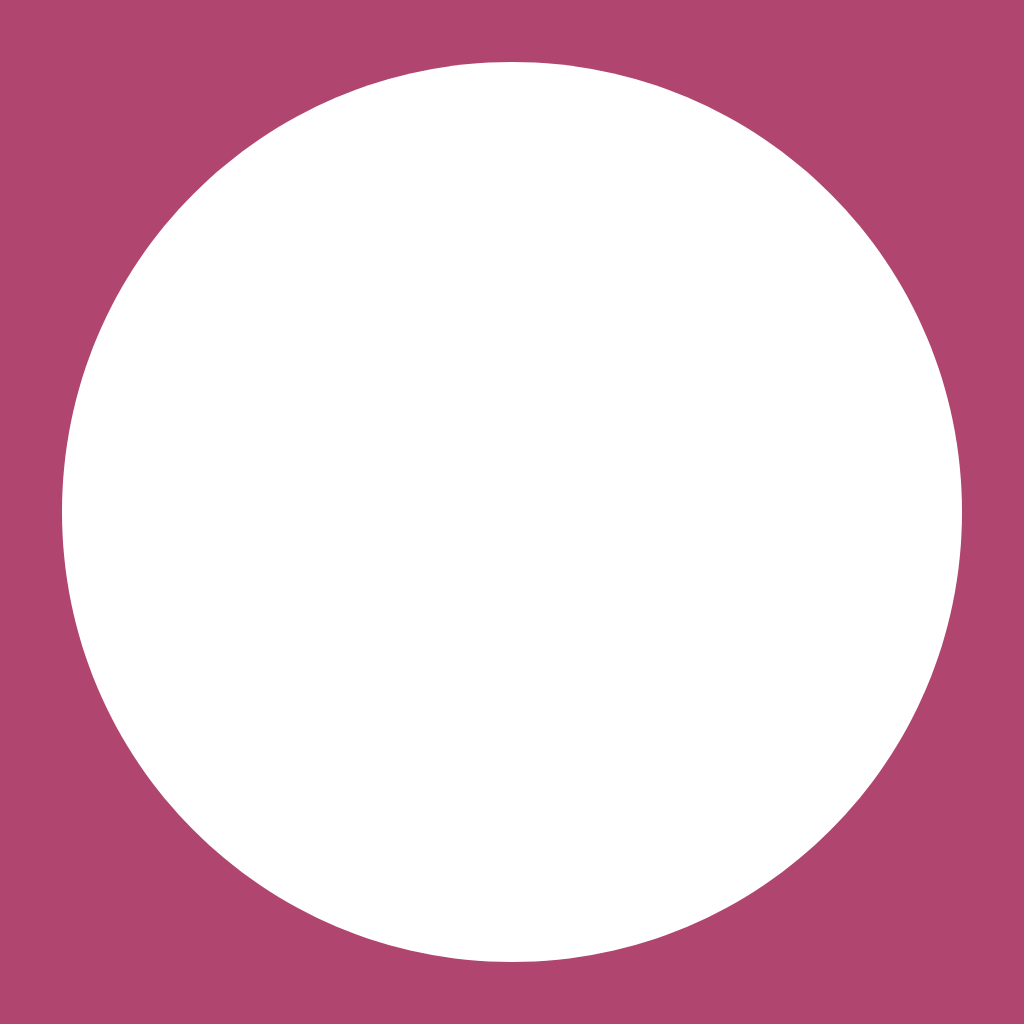
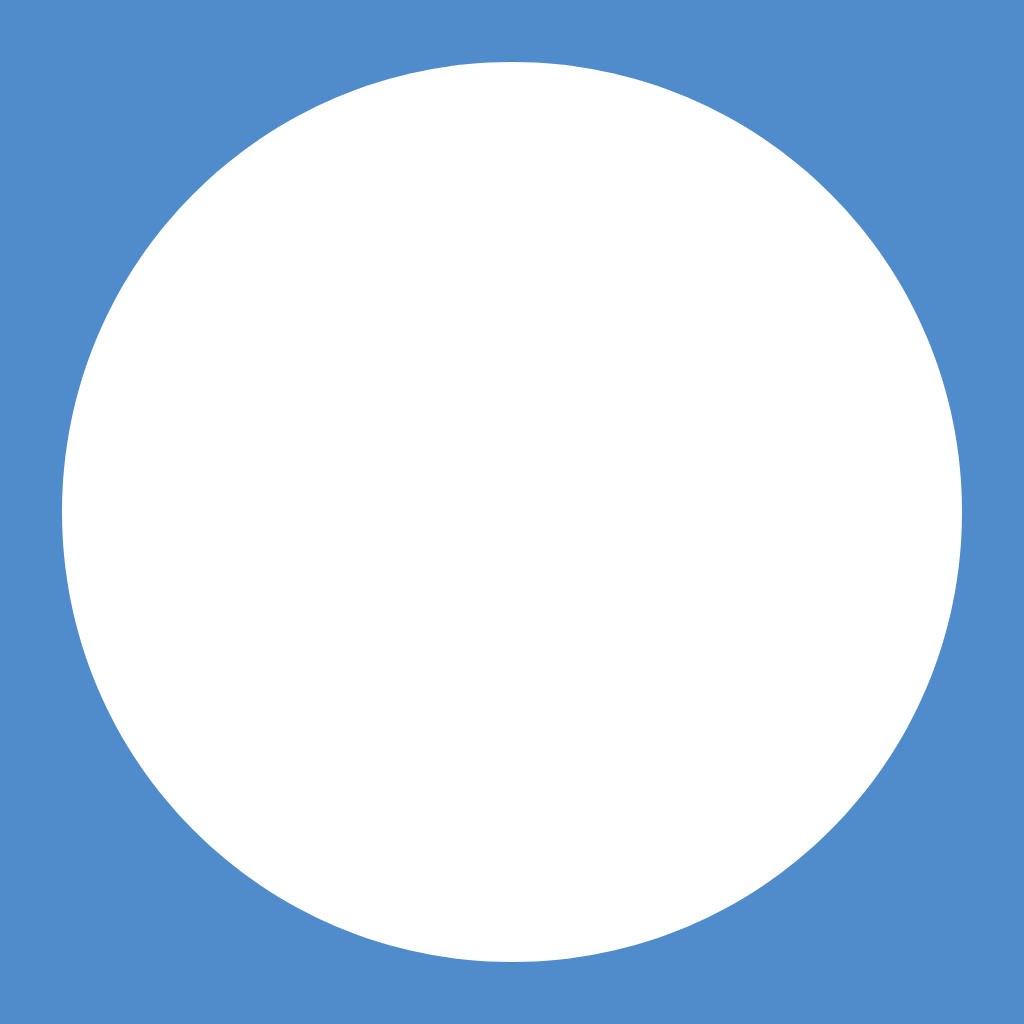
Changed accent color

diff --git a/app/(tabs)/voluntariados.tsx b/app/(tabs)/voluntariados.tsx
@@ -15,8 +15,11 @@ import { Ionicons } from "@expo/vector-icons";
 import { useRouter } from "expo-router";
 import { WebNavigation } from "../../components/web-navigation";
 
-const HEADER_COLOR = "#b04570";
-const BORDER_COLOR = "#c7a6c0";
+const HEADER_COLOR = "#508ccb";
+const BORDER_COLOR = "#9cbde5";
+const MUTED_CHIP_BACKGROUND = "#e5edf8";
+const SECONDARY_BUTTON_BACKGROUND = "#d6e6f9";
+const SECONDARY_ACCENT = "#3f6fa5";
 const TEXT_PRIMARY = "#2f3542";
 const TEXT_SECONDARY = "#4d5866";
 const PROGRAM_DISCLAIMER =
@@ -34,7 +37,7 @@ const EVENTS = [
     summary: "Jornada comunitaria para replantar especies nativas y recuperar zonas verdes del Cerro del 4.",
     meetupPoint: "Punto de reunión: Parque Miravalle, entrada principal.",
     contact: "Contacto: coordinacion@gilgilyasociados.org",
-    image: require("../../assets/images/originales/WhatsApp_Image_2025-03-18_at_11.29.34_PM-removebg-preview.png"),
+    image: require("../../assets/images/originales/logo color.png"),
     showDisclaimer: true,
   },
   {
@@ -48,7 +51,7 @@ const EVENTS = [
     summary: "Recolección y entrega de despensas para familias de la colonia Las Juntas.",
     meetupPoint: "Centro comunitario Agape, Calle Solidaridad #210.",
     contact: "Contacto: 33 1234 5678",
-    image: require("../../assets/images/originales/WhatsApp_Image_2025-03-18_at_11.29.34_PM-removebg-preview.png"),
+    image: require("../../assets/images/originales/logo color.png"),
     showDisclaimer: false,
   },
   {
@@ -62,7 +65,7 @@ const EVENTS = [
     summary: "Actividad para limpiar la ribera del río, retirar escombros y plantar barreras vegetales para evitar la erosión.",
     meetupPoint: "Puente La Piedad, junto al paradero.",
     contact: "voluntariado@vecinosunidos.mx",
-    image: require("../../assets/images/originales/WhatsApp_Image_2025-03-18_at_11.29.34_PM-removebg-preview.png"),
+    image: require("../../assets/images/originales/logo color.png"),
     showDisclaimer: true,
   },
   {
@@ -76,7 +79,7 @@ const EVENTS = [
     summary: "Programa de apoyo escolar para estudiantes de secundaria con énfasis en matemáticas y lectura.",
     meetupPoint: "Centro Comunitario, aula 3 (segundo piso).",
     contact: "contacto@aprender.org",
-    image: require("../../assets/images/originales/WhatsApp_Image_2025-03-18_at_11.29.34_PM-removebg-preview.png"),
+    image: require("../../assets/images/originales/logo color.png"),
     showDisclaimer: false,
   },
   {
@@ -90,7 +93,7 @@ const EVENTS = [
     summary: "Unidad móvil para donación voluntaria de sangre. Se requiere registro previo y cumplir requisitos de salud.",
     meetupPoint: "Estacionamiento del Mercado Central.",
     contact: "33 9876 5432",
-    image: require("../../assets/images/originales/WhatsApp_Image_2025-03-18_at_11.29.34_PM-removebg-preview.png"),
+    image: require("../../assets/images/originales/logo color.png"),
     showDisclaimer: true,
   },
   {
@@ -104,7 +107,7 @@ const EVENTS = [
     summary: "Visitas domiciliarias para compañía, apoyo con compras y trámites a personas mayores en situación de vulnerabilidad.",
     meetupPoint: "Casa del Voluntariado, recepción.",
     contact: "apoyo@redapoyo.org",
-    image: require("../../assets/images/originales/WhatsApp_Image_2025-03-18_at_11.29.34_PM-removebg-preview.png"),
+    image: require("../../assets/images/originales/logo color.png"),
     showDisclaimer: false,
   },
 ] as const;
@@ -530,7 +533,7 @@ const styles = StyleSheet.create({
     borderRadius: 21,
     alignItems: "center",
     justifyContent: "center",
-    backgroundColor: "#e8ecf3",
+    backgroundColor: MUTED_CHIP_BACKGROUND,
   },
   emptyState: {
     alignItems: "center",
@@ -571,7 +574,7 @@ const styles = StyleSheet.create({
     backgroundColor: HEADER_COLOR,
   },
   emptyButtonSecondary: {
-    backgroundColor: "#dcdde3",
+    backgroundColor: SECONDARY_BUTTON_BACKGROUND,
   },
   emptyButtonPrimaryText: {
     color: "#fff",
@@ -642,7 +645,7 @@ const styles = StyleSheet.create({
     justifyContent: "center",
   },
   radiusButtonSecondary: {
-    backgroundColor: "#b45a7a",
+    backgroundColor: SECONDARY_ACCENT,
   },
   radiusButtonPrimary: {
     backgroundColor: HEADER_COLOR,
@@ -719,7 +722,7 @@ const styles = StyleSheet.create({
     gap: 16,
   },
   detailsIcon: {
-    backgroundColor: "#f7f0f4",
+    backgroundColor: MUTED_CHIP_BACKGROUND,
     borderRadius: 20,
     padding: 10,
   },

diff --git a/components/web-navigation.tsx b/components/web-navigation.tsx
@@ -1,7 +1,7 @@
 import { Platform, Pressable, StyleSheet, Text, View } from "react-native";
 import { usePathname, useRouter } from "expo-router";
 
-const HEADER_COLOR = "#b04570";
+const HEADER_COLOR = "#508ccb";
 
 const NAV_LINKS = [
   { label: "Inicio", href: "/" },
@@ -39,14 +39,29 @@ export function WebNavigation() {
             key={link.href}
             accessibilityRole="link"
             accessibilityState={{ selected: isActive }}
-            style={[styles.navButton, isActive && styles.navButtonActive]}
+            style={({ hovered }) => [
+              styles.navButton,
+              hovered && styles.navButtonHovered,
+              isActive && styles.navButtonActive,
+              hovered && isActive && styles.navButtonActiveHovered,
+            ]}
             onPress={() => {
               if (!isActive) {
                 router.push(link.href);
               }
             }}
           >
-            <Text style={[styles.navText, isActive && styles.navTextActive]}>{link.label}</Text>
+            {({ hovered }) => (
+              <Text
+                style={[
+                  styles.navText,
+                  isActive && styles.navTextActive,
+                  hovered && styles.navTextHovered,
+                ]}
+              >
+                {link.label}
+              </Text>
+            )}
           </Pressable>
         );
       })}
@@ -58,7 +73,7 @@ const styles = StyleSheet.create({
   navBar: {
     flexDirection: "row",
     justifyContent: "center",
-  gap: 18,
+    gap: 18,
     paddingHorizontal: 24,
     paddingVertical: 12,
     backgroundColor: "#fff",
@@ -67,9 +82,22 @@ const styles = StyleSheet.create({
     paddingVertical: 8,
     paddingHorizontal: 14,
     borderRadius: 18,
+    transitionDuration: "160ms",
+    transitionProperty: "transform, background-color, box-shadow",
+  },
+  navButtonHovered: {
+    transform: [{ scale: 1.05 }],
+    backgroundColor: "#f2f8ff",
+    shadowColor: "rgba(43, 92, 148, 0.35)",
+    shadowOffset: { width: 0, height: 4 },
+    shadowOpacity: 0.18,
+    shadowRadius: 8,
   },
   navButtonActive: {
-    backgroundColor: "#f2d7e3",
+    backgroundColor: "#e1effa",
+  },
+  navButtonActiveHovered: {
+    backgroundColor: "#d4e8ff",
   },
   navText: {
     color: HEADER_COLOR,
@@ -78,5 +106,8 @@ const styles = StyleSheet.create({
   },
   navTextActive: {
     color: HEADER_COLOR,
+  },
+  navTextHovered: {
+    color: "#2b5c94",
   },
 });

diff --git a/app/(tabs)/unidades.tsx b/app/(tabs)/unidades.tsx
@@ -15,8 +15,13 @@ import { Ionicons } from "@expo/vector-icons";
 import { useRouter } from "expo-router";
 import { WebNavigation } from "../../components/web-navigation";
 
-const HEADER_COLOR = "#b04570";
-const BORDER_COLOR = "#c7a6c0";
+const HEADER_COLOR = "#508ccb";
+const BORDER_COLOR = "#9cbde5";
+const MUTED_CHIP_BACKGROUND = "#e5edf8";
+const SECONDARY_BUTTON_BACKGROUND = "#d6e6f9";
+const SECONDARY_ACCENT = "#3f6fa5";
+const NOTES_BACKGROUND = "#f0f6fc";
+const PROGRAM_ICON_BACKGROUND = "#e8f2fc";
 const TEXT_PRIMARY = "#2f3542";
 const TEXT_SECONDARY = "#4d5866";
 
@@ -507,7 +512,7 @@ const styles = StyleSheet.create({
     backgroundColor: HEADER_COLOR,
   },
   emptyButtonSecondary: {
-    backgroundColor: "#dcdde3",
+    backgroundColor: SECONDARY_BUTTON_BACKGROUND,
   },
   emptyButtonPrimaryText: {
     color: "#fff",
@@ -578,7 +583,7 @@ const styles = StyleSheet.create({
     justifyContent: "center",
   },
   radiusButtonSecondary: {
-    backgroundColor: "#b45a7a",
+    backgroundColor: SECONDARY_ACCENT,
   },
   radiusButtonPrimary: {
     backgroundColor: HEADER_COLOR,
@@ -672,7 +677,7 @@ const styles = StyleSheet.create({
     borderColor: BORDER_COLOR,
     alignItems: "center",
     justifyContent: "center",
-    backgroundColor: "#f7f0f4",
+    backgroundColor: MUTED_CHIP_BACKGROUND,
   },
   detailsMeta: {
     flex: 1,
@@ -692,7 +697,7 @@ const styles = StyleSheet.create({
     borderColor: BORDER_COLOR,
     borderRadius: 12,
     padding: 14,
-    backgroundColor: "#faf5f7",
+    backgroundColor: NOTES_BACKGROUND,
   },
   detailsNotes: {
     fontSize: 14,
@@ -725,7 +730,7 @@ const styles = StyleSheet.create({
     borderColor: BORDER_COLOR,
     alignItems: "center",
     justifyContent: "center",
-    backgroundColor: "#f1f4f9",
+    backgroundColor: PROGRAM_ICON_BACKGROUND,
   },
   programInfo: {
     flex: 1,
@@ -755,7 +760,7 @@ const styles = StyleSheet.create({
     borderRadius: 20,
     alignItems: "center",
     justifyContent: "center",
-    backgroundColor: "#e6e9f2",
+    backgroundColor: MUTED_CHIP_BACKGROUND,
   },
   detailsCloseButton: {
     marginTop: 8,

diff --git a/app/(tabs)/talleres.tsx b/app/(tabs)/talleres.tsx
@@ -15,8 +15,11 @@ import { Ionicons } from "@expo/vector-icons";
 import { useRouter } from "expo-router";
 import { WebNavigation } from "../../components/web-navigation";
 
-const HEADER_COLOR = "#b04570";
-const BORDER_COLOR = "#c7a6c0";
+const HEADER_COLOR = "#508ccb";
+const BORDER_COLOR = "#9cbde5";
+const MUTED_CHIP_BACKGROUND = "#e5edf8";
+const SECONDARY_BUTTON_BACKGROUND = "#d6e6f9";
+const SECONDARY_ACCENT = "#3f6fa5";
 const TEXT_PRIMARY = "#2f3542";
 const TEXT_SECONDARY = "#4d5866";
 const PROGRAM_DISCLAIMER =
@@ -530,7 +533,7 @@ const styles = StyleSheet.create({
     borderRadius: 21,
     alignItems: "center",
     justifyContent: "center",
-    backgroundColor: "#e8ecf3",
+    backgroundColor: MUTED_CHIP_BACKGROUND,
   },
   emptyState: {
     alignItems: "center",
@@ -571,7 +574,7 @@ const styles = StyleSheet.create({
     backgroundColor: HEADER_COLOR,
   },
   emptyButtonSecondary: {
-    backgroundColor: "#dcdde3",
+    backgroundColor: SECONDARY_BUTTON_BACKGROUND,
   },
   emptyButtonPrimaryText: {
     color: "#fff",
@@ -642,7 +645,7 @@ const styles = StyleSheet.create({
     justifyContent: "center",
   },
   radiusButtonSecondary: {
-    backgroundColor: "#b45a7a",
+    backgroundColor: SECONDARY_ACCENT,
   },
   radiusButtonPrimary: {
     backgroundColor: HEADER_COLOR,
@@ -719,7 +722,7 @@ const styles = StyleSheet.create({
     gap: 16,
   },
   detailsIcon: {
-    backgroundColor: "#f7f0f4",
+    backgroundColor: MUTED_CHIP_BACKGROUND,
     borderRadius: 20,
     padding: 10,
   },

diff --git a/app/(tabs)/index.tsx b/app/(tabs)/index.tsx
@@ -18,7 +18,7 @@ import { Ionicons } from "@expo/vector-icons";
 import { Link, useRouter } from "expo-router";
 import { WebNavigation } from "../../components/web-navigation";
 
-const HEADER_COLOR = "#b04570";
+const HEADER_COLOR = "#508ccb";
 const AUTO_SCROLL_INTERVAL = 5000;
 const CARD_ASPECT_RATIO = 0.56;
 const MAX_CARD_WIDTH = 720;
@@ -31,7 +31,7 @@ const carouselItems = [
     title: "Colecta de alimentos",
     subtitle: "Apoya la iniciativa [Caritas]",
     image:
-      "https://images.unsplash.com/photo-1582719478250-c89cae4dc85b?auto=format&fit=crop&w=1400&q=80",
+      "https://images.unsplash.com/photo-1599059813005-11265ba4b4ce?auto=format&fit=crop&w=1740&q=80",
   },
   {
     id: "2",
@@ -332,7 +332,7 @@ const styles = StyleSheet.create({
     borderRadius: 16,
   },
   carouselOverlay: {
-    backgroundColor: "rgba(176, 69, 112, 0.55)",
+    backgroundColor: "rgba(80, 140, 203, 0.55)",
     padding: 16,
   },
   carouselTitle: {
@@ -361,7 +361,7 @@ const styles = StyleSheet.create({
     borderRadius: 21,
     backgroundColor: "rgba(255,255,255,0.92)",
     borderWidth: 1,
-    borderColor: "rgba(176,69,112,0.35)",
+    borderColor: "rgba(80,140,203,0.35)",
     alignItems: "center",
     justifyContent: "center",
   },

diff --git a/app/(tabs)/_layout.tsx b/app/(tabs)/_layout.tsx
@@ -2,7 +2,7 @@ import { Ionicons } from "@expo/vector-icons";
 import { Tabs } from "expo-router";
 import { Platform } from "react-native";
 
-const HEADER_COLOR = "#b04570";
+const HEADER_COLOR = "#508ccb";
 
 export default function TabsLayout() {
   const isWeb = Platform.OS === "web";
